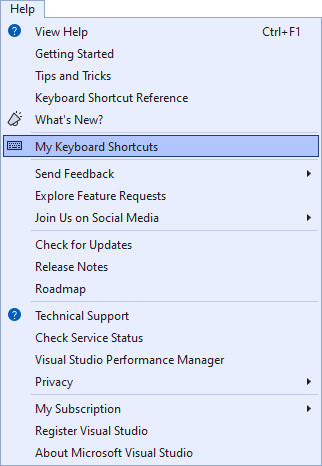
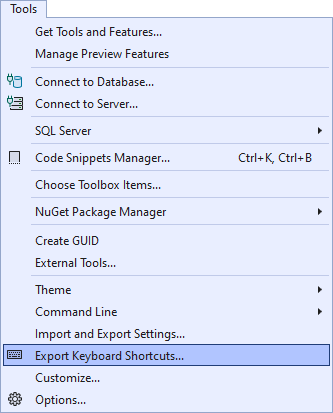
Moved menu item under Tools top-level menu [release]

diff --git a/src/VSCommandTable.cs b/src/VSCommandTable.cs
@@ -20,7 +20,6 @@ namespace ShowKeybindings
     /// </summary>
     internal sealed partial class PackageIds
     {
-        public const int Group = 0x1000;
         public const int ListAll = 0x0100;
     }
 }

diff --git a/README.md b/README.md
@@ -13,7 +13,7 @@ or get the [CI build][vsixgallery].
 
 Exports all your keybindings to a document that's easy to read for you reference. It exports all shortcuts, including your custom assigned shortcuts as well as shortcuts added by extensions. Can export in both HTML, VS Settings, text, and JSON formats. 
 
-Find the **My Keyboard Shortcuts** command in the top-level **Help** menu.
+Find the **Export Keyboard Shortcuts...** command in the top-level **Tools** menu.
 
 ![Menu](art/menu.png)
 
